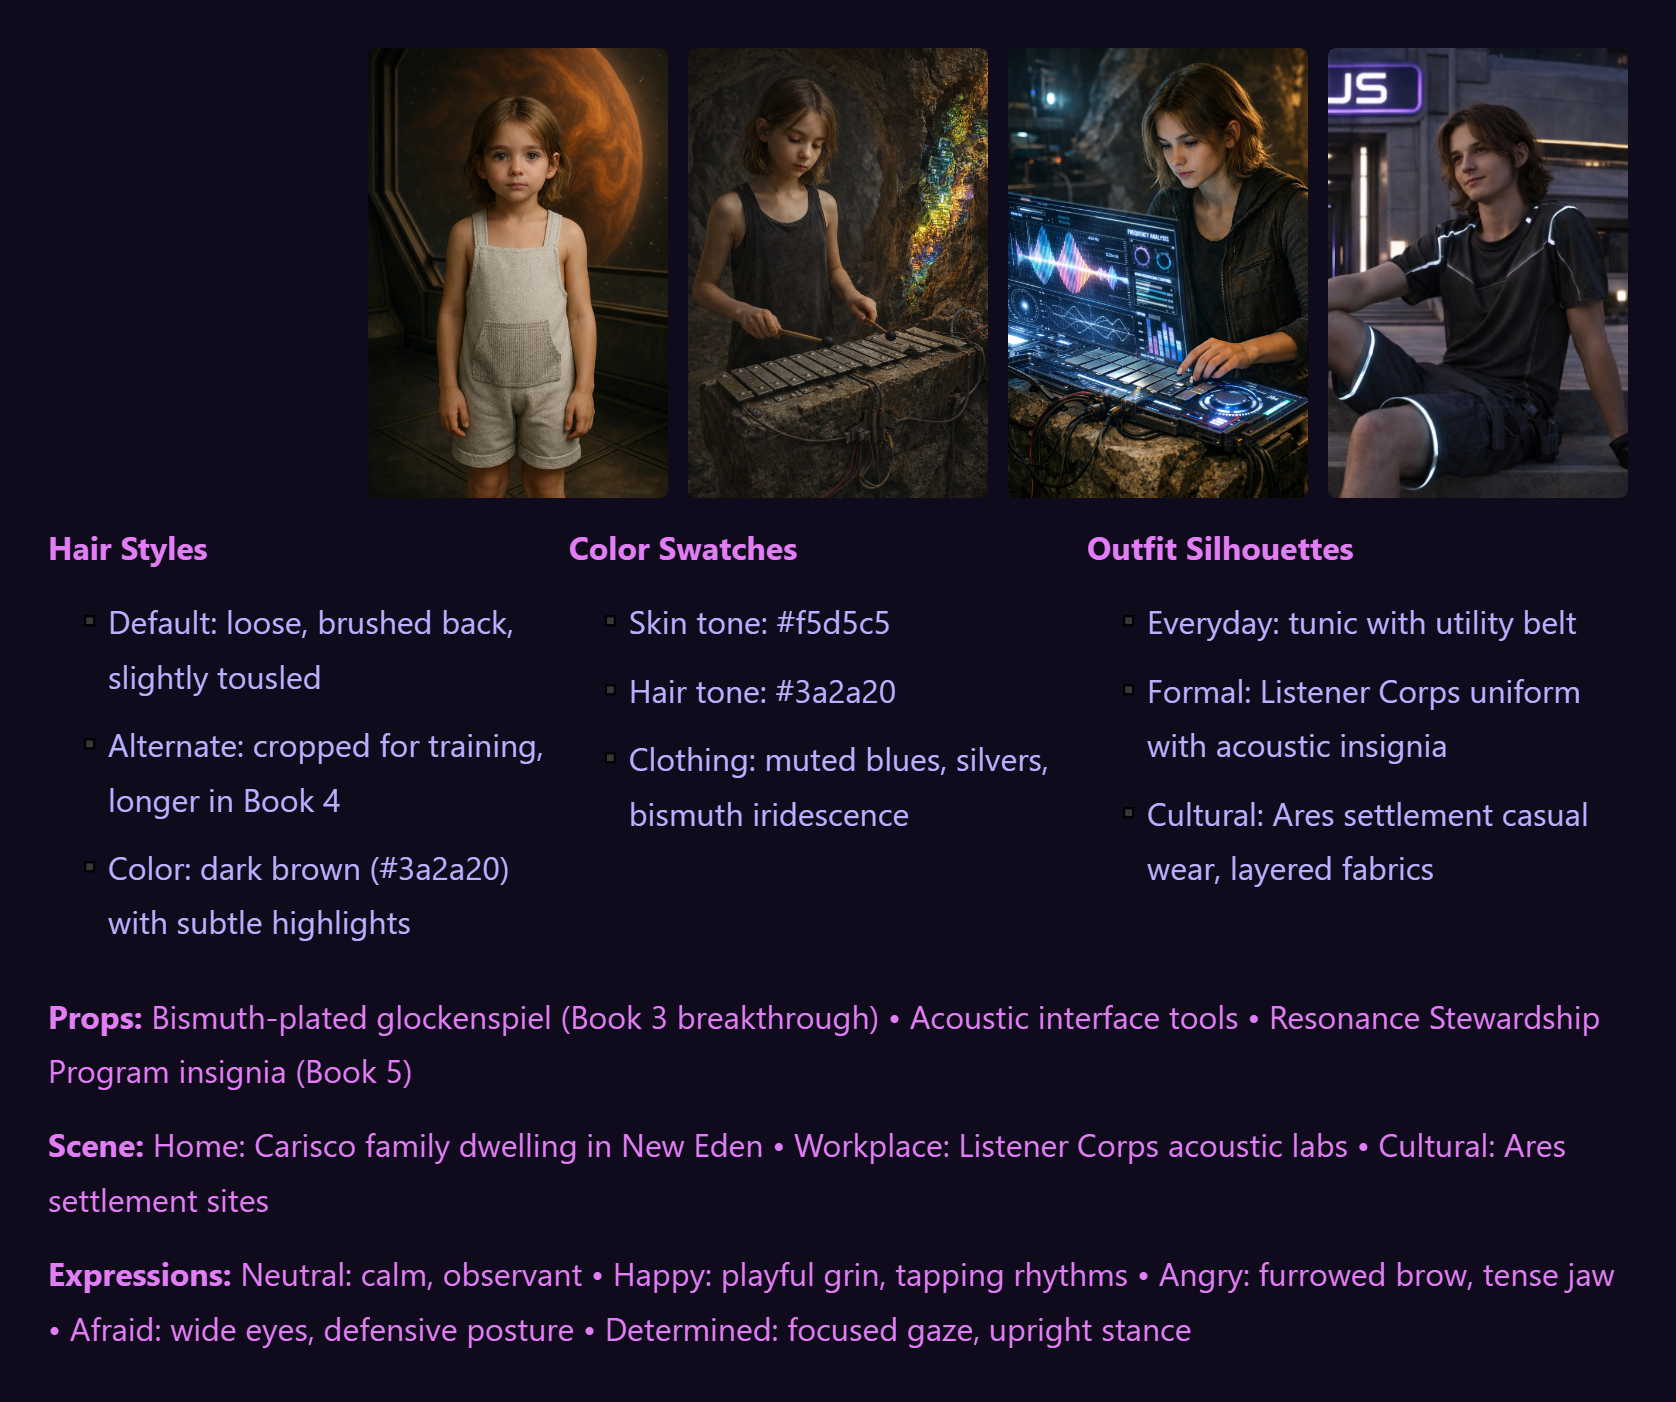
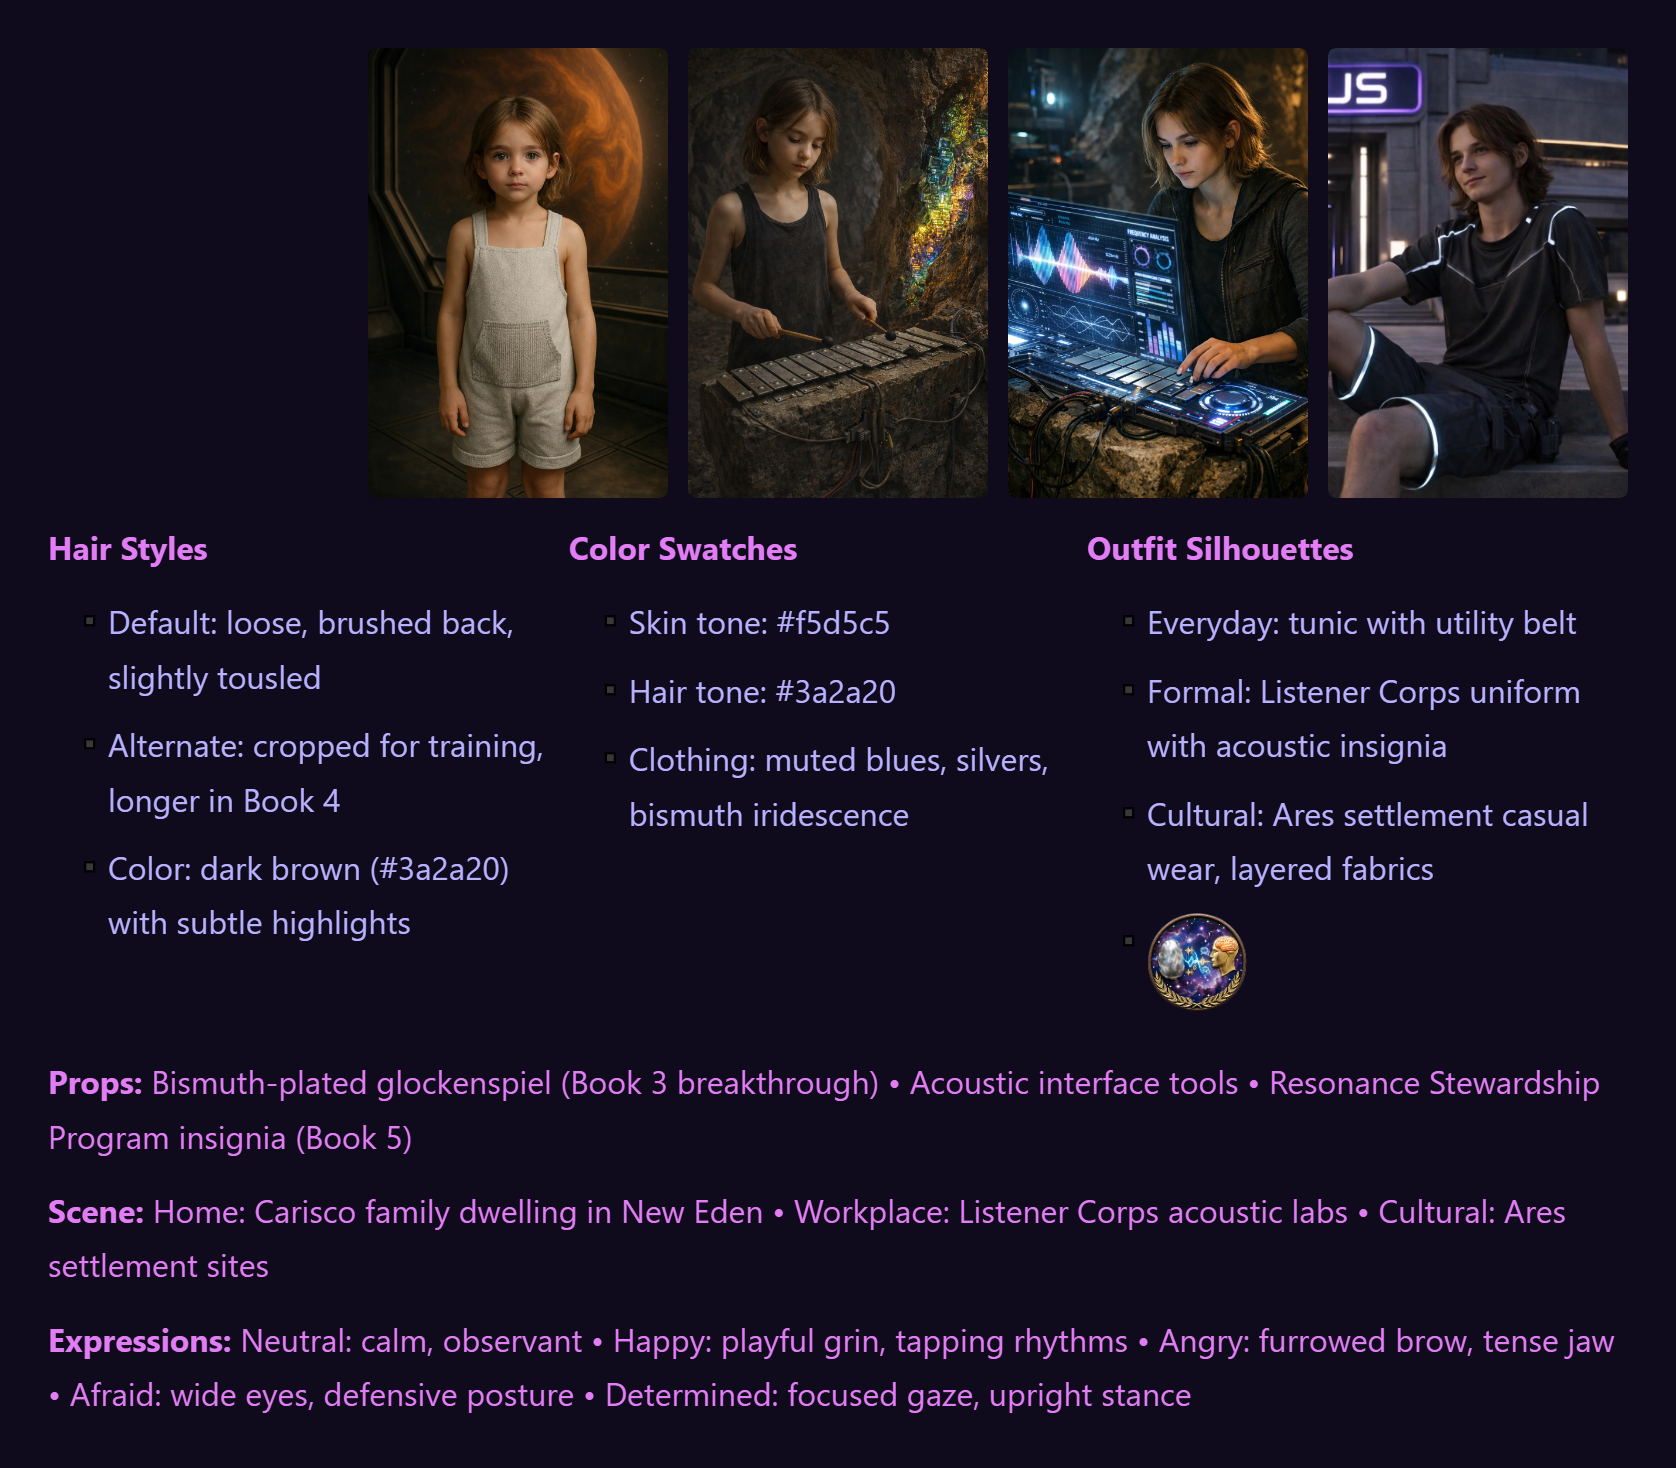
Update insignia box dimensions in identity grid for improved visibility

Changed region(s): [[0.031, 0.0307, 0.9928, 0.9815], [0.031, 0.368, 0.3413, 0.6748], [0.3413, 0.0307, 0.3723, 0.0613]]

diff --git a/wikistyle.css b/wikistyle.css
@@ -2242,8 +2242,8 @@ hr {
 }
 
 .identity-grid .insignia-box {
-  width: 50px;
-  height: 50px;                 /* Force exact 50x50px square dimensions */
+  width: 200px;
+  height: 200px;                 /* Force exact 50x50px square dimensions */
   margin-top: 10px;
 }
 
